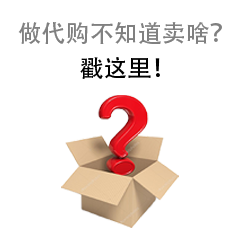
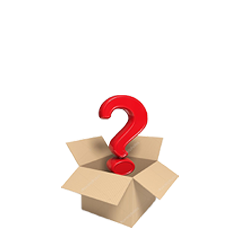
图片中的字转化成网页字

Changed region(s): [[0.0583, 0.0875, 0.9333, 0.2042], [0.3208, 0.2333, 0.6708, 0.35]]

diff --git a/05_Source/OZTT_Phone/src/main/webapp/css/main.css b/05_Source/OZTT_Phone/src/main/webapp/css/main.css
@@ -625,3 +625,23 @@ input:focus{outline: none;}
     right: 10px;
     top: 45px;
 }
+
+/* 首页样式从新修改  */
+.xianshi_tuangou{
+	position: absolute;
+	top:6px;
+	padding-top: 3px !important;
+	text-align: center;
+	padding:0px;
+	width: 100%;
+}
+.daigou_zuosha{
+	position: absolute;
+	top:6px;
+	font-size: 21px;
+	padding: 0px 16px;
+}
+
+.daigou_zuosha p{
+	font-size: 21px !important;
+}
